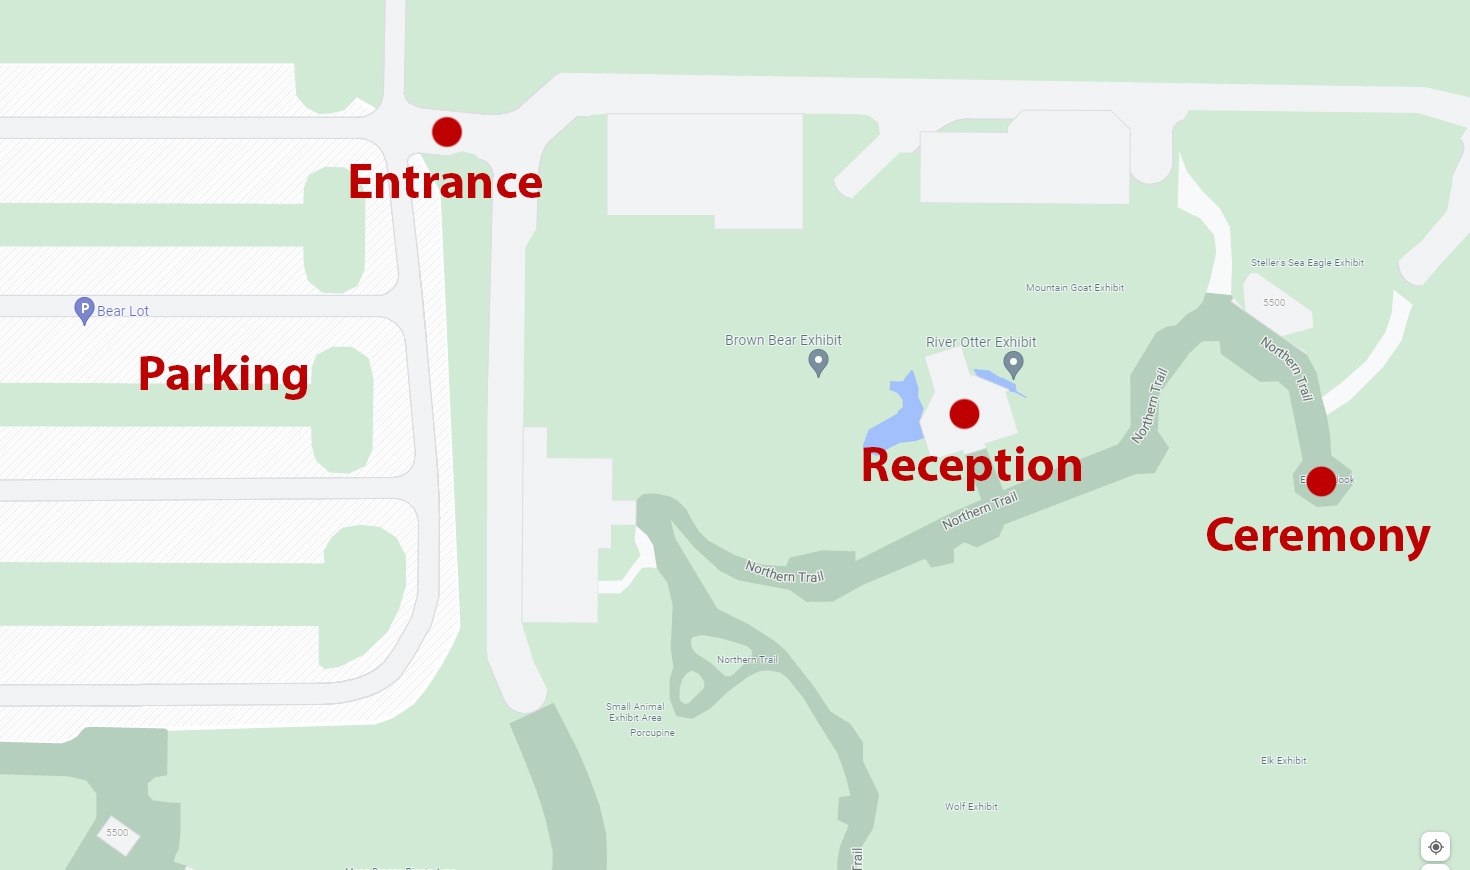
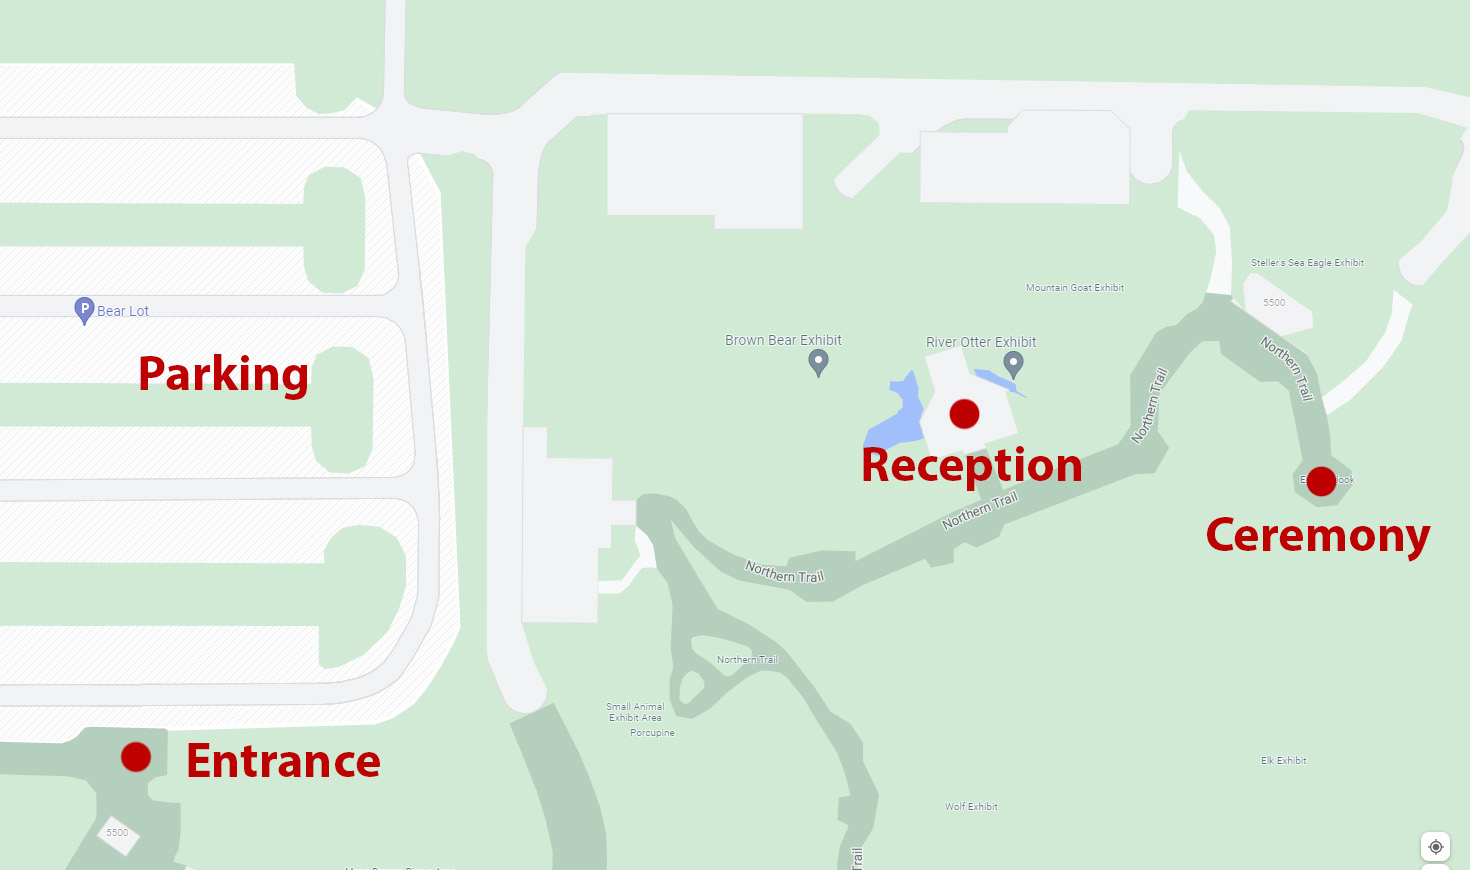
Updated map

Changed region(s): [[0.2143, 0.1241, 0.3673, 0.2483], [0.0612, 0.8379, 0.2755, 0.9]]

diff --git a/index.md b/index.md
@@ -1,18 +1,35 @@
 # Locations
 
-Wedding ceremony and reception
-: The event itself takes place at [Woodland Park Zoo](https://www.zoo.org/). It's a big place -- come to the [Bear Parking Lot](https://goo.gl/maps/kZCgSavnzkApNWCt9) (here are some [directions from the Zoo people](directions_to_parking.pdf)) and you'll enter [at the Bear Entrance](https://maps.app.goo.gl/8Tae6WihHTc5fsAB8).
+### Wedding ceremony and reception
 
-<img src="zoo_guest_map.jpg" width="400px"> 
+The event itself takes place at [Woodland Park Zoo](https://www.zoo.org/). It's a big place -- come to the [Bear Parking Lot](https://goo.gl/maps/kZCgSavnzkApNWCt9) (here are some [directions from the Zoo people](directions_to_parking.pdf)) and you'll enter [at the Bear Entrance](https://maps.app.goo.gl/8Tae6WihHTc5fsAB8).
 
-Dinner, Friday September 16th
-: Join us for dinner at [Fiasco](https://maps.app.goo.gl/K4VzUQYjb3uMHy8z8).
+<a href="zoo_guest_map.jpg"><img src="zoo_guest_map.jpg" width="400px"></a>
 
-Brunch, Sunday September 18th
-: We're brunching at [Little Water Cantina](Little Water Cantina](https://maps.app.goo.gl/yQrPfururYWCMgwh7)
+### Dinner, Friday September 16th, at 7pm
+
+Join us for dinner at [Fiasco](https://maps.app.goo.gl/K4VzUQYjb3uMHy8z8), at 7pm.
+
+
+### Brunch, Sunday September 18th, at 11:30am
+
+We're brunching at [Little Water Cantina](Little Water Cantina](https://maps.app.goo.gl/yQrPfururYWCMgwh7) at 11:30am.
 
 
 # Times
 
-Ceremony
-: The Zoo opens at 7pm. Please be there a little early because the ceremony kicks off at 7:10pm so we can catch the last of the light!
+### Ceremony
+
+|  |  |
+|---|---|
+| 7pm | The Zoo opens. Please be there a little early because the ceremony starts ten minutes later, so we can catch the last of the light! |
+| 7:10pm | The ceremony begins. |
+| 7:30pm | Cocktails and reception. |
+| 8:30pm | Dinner at the Otter House. |
+
+
+
+# Things to do in Seattle
+
+
+# The hotel
